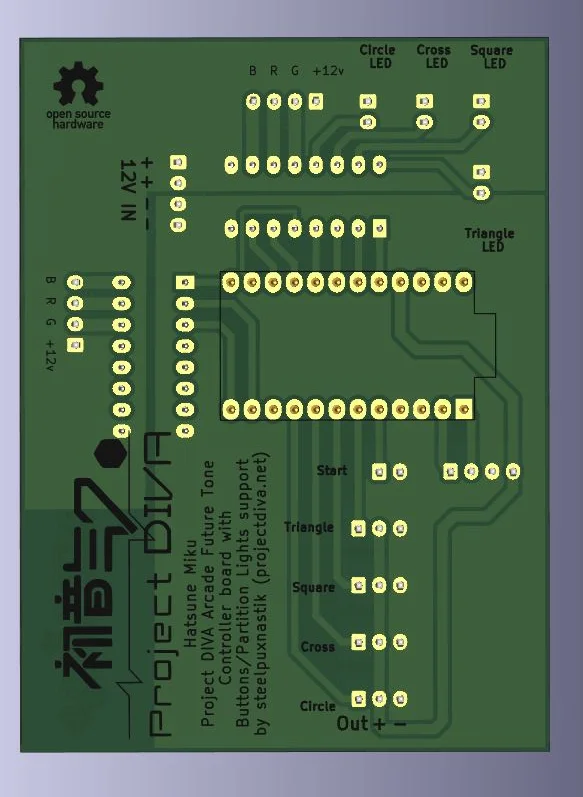
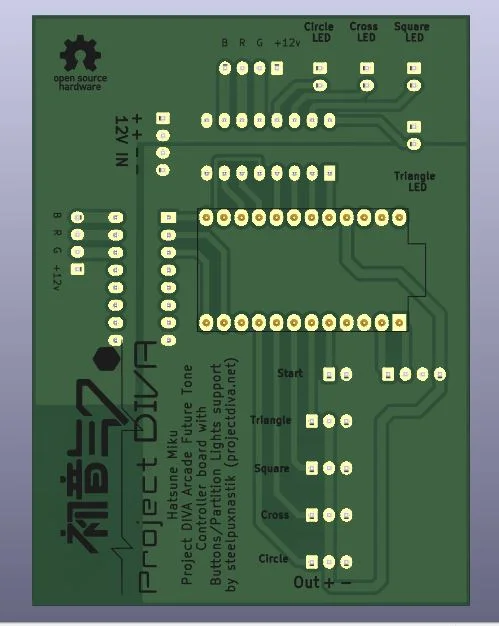
PCB update

diff --git a/README.md b/README.md
@@ -6,7 +6,7 @@
 Hatsune Miku Project DIVA Arcade Future Tone controller with button/partition lights support (works fully like on official arcade machine) controlled by game. Controller realizes work with buttons (TRIANGLE, SQUARE, CROSS, CIRCLE, START) and abitily to connect 4 buttons LED and left/right partition 12V RGB LED strip (without slider, for slider I recomend to use LKP https://github.com/Project-Alpaca/LKP). LED info obtained by UART, special PD-Loader plugin activation needed (coming soon).
 
 ## Repository contains
-Contains PCB (KiCad 5.99+  (5.99.0-11737-gca42f31bb5), release build or newer needs to open) and firmware for Arduino Pro Micro that used in it (use Arduino IDE 1.8 or newer to flash firmware).
+Contains [PCB](/PDAFT_BPL_PCB) (KiCad 5.99+  (5.99.0-11737-gca42f31bb5), release build or newer needs to open) and [firmware](/firmware) for Arduino Pro Micro that used in it (use Arduino IDE 1.8 or newer to flash firmware).
 
 ## Variations
 Board has two possibilities to receive serial data: throught USB (serial) or using TTL (serial1).
@@ -17,6 +17,8 @@ To use USB-Serial connection flash `firmware/firmware_USB-Serial/firmware_USB-Se
 To use TTL - `firmware/firmware_TTL/firmware_TTL.ino`
 
 ## Parts needed to use
+
+`PDAFT_BPL_PCB` (1 pcs, order on JLCPCB or somewhere else or make it by yourself)
 
 `JST XH 2pin socket and plug` (5 pcs) for:
   - Start button (desctibed pins from 1 to last, `OUT`, `GND`)
@@ -39,7 +41,11 @@ To use TTL - `firmware/firmware_TTL/firmware_TTL.ino`
   
  `Arduino ProMicro` (1 pcs)
  
- `12 pin header` (2 pcs, to have possibility to just plug in Arduino ProMicro and change it if needed without soldering, pin headers will be soldered)
+ `12 pin header` (2 pcs, to have possibility to just plug in Arduino ProMicro and change it if needed without soldering, `12 pin header` will be soldered)
+ 
+ `ULN2003` (2 pcs, to use LEDs with it)
+ 
+ `DIP 16 pin socket` (2 pcs, to make possibility to change `ULN2003` without soldering if needed, `DIP 16 pin socket` will be soldered)
 
 ## About button connection
 
